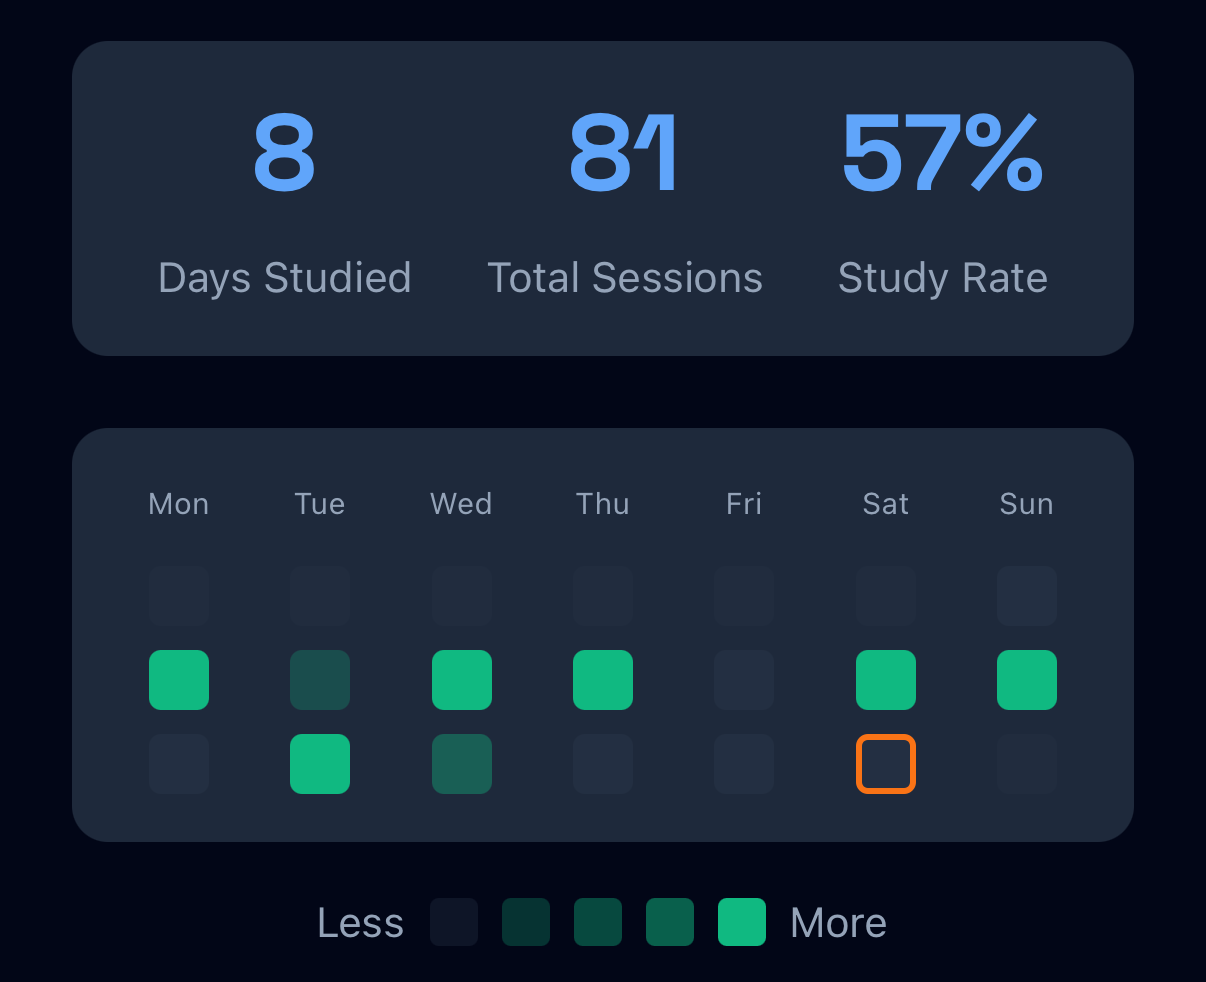
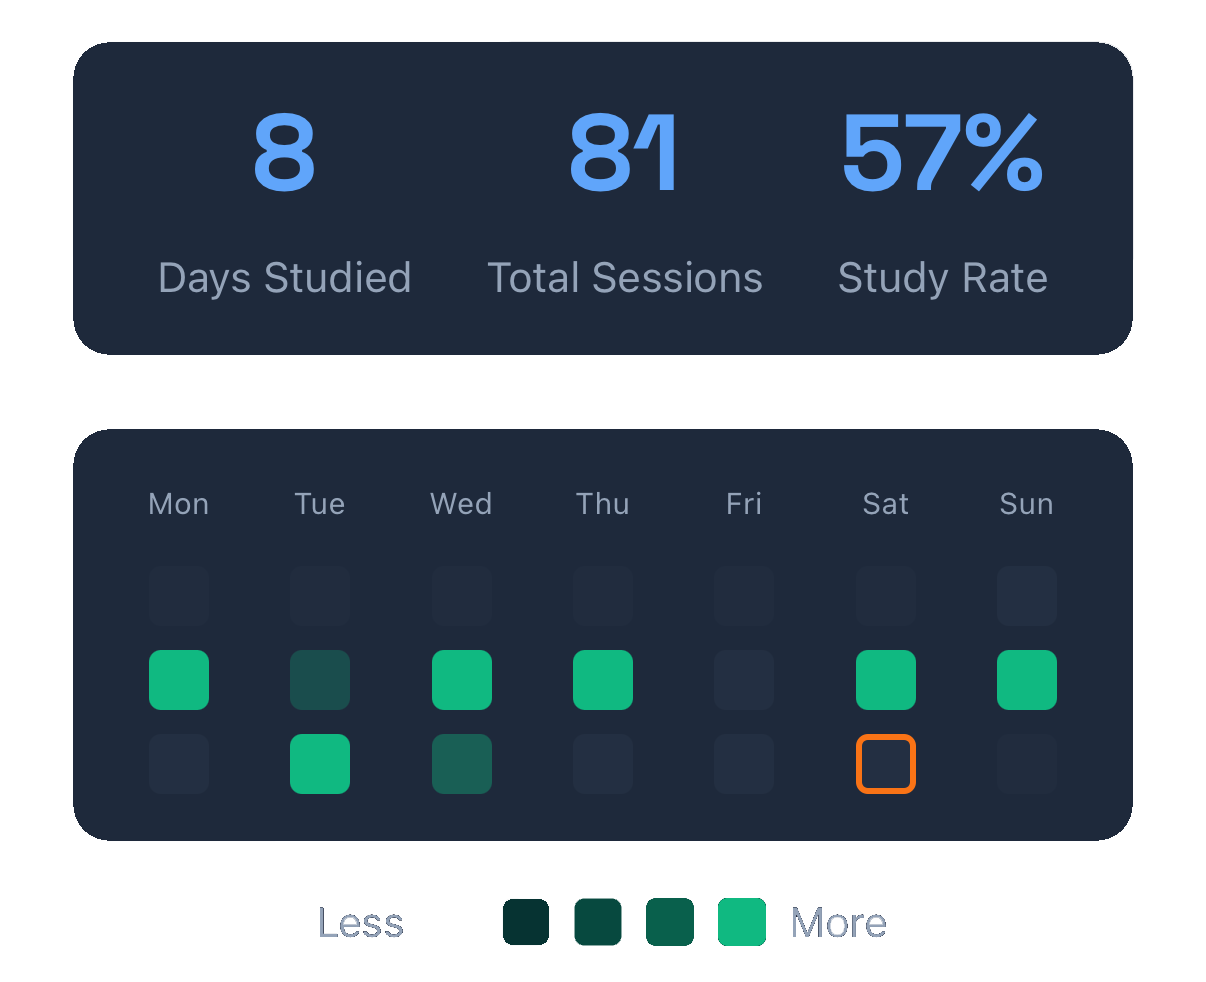
Update hero text line break and clean up analytics card styling
Hero Section:
- Split main heading on mobile: "Master Anything with" / "Spaced Repetition"
- Add mobile-break class to control line break visibility

Analytics Section:
- Remove dark background color from analytics cards
- Remove gradient blur overlay from card images
- Update analytics images (calendar and memory)

🤖 Generated with [Claude Code](https://claude.com/claude-code)

diff --git a/styles.css b/styles.css
@@ -141,6 +141,10 @@ main {
     background-clip: text;
 }
 
+.mobile-break {
+    display: none;
+}
+
 .hero-description {
     font-size: 1.25rem;
     color: #cbd5e1;
@@ -707,7 +711,7 @@ main {
 }
 
 .analytics-card {
-    background: #020717;
+    background: transparent;
     border-radius: 16px;
     border: 1px solid rgba(139, 92, 246, 0.3);
     transition: transform 0.3s, border-color 0.3s, box-shadow 0.3s;
@@ -759,12 +763,7 @@ main {
     left: 0;
     right: 0;
     height: 50px;
-    background: linear-gradient(to bottom,
-        rgba(2, 7, 23, 0) 0%,
-        rgba(2, 7, 23, 0.2) 40%,
-        rgba(2, 7, 23, 0.6) 70%,
-        rgba(2, 7, 23, 1) 100%
-    );
+    background: transparent;
     pointer-events: none;
 }
 
@@ -990,6 +989,10 @@ main {
         font-size: 1.75rem;
         order: 1;
         margin-bottom: 1.5rem;
+    }
+
+    .mobile-break {
+        display: inline;
     }
 
     .cta-buttons {

diff --git a/index.html b/index.html
@@ -23,7 +23,7 @@
                         <img src="images/logo.png" alt="Brainbank Logo" class="hero-logo">
                         <h2 class="hero-title">Brainbank</h2>
                     </div>
-                    <h1>Master Anything with Spaced Repetition</h1>
+                    <h1>Master Anything with<br class="mobile-break"> Spaced Repetition</h1>
                     <p class="hero-description">Brainbank uses the scientifically-proven FSRS algorithm to optimize your learning schedule. Study smarter, remember longer, and achieve your learning goals faster.</p>
 
                     <div class="hero-features">
